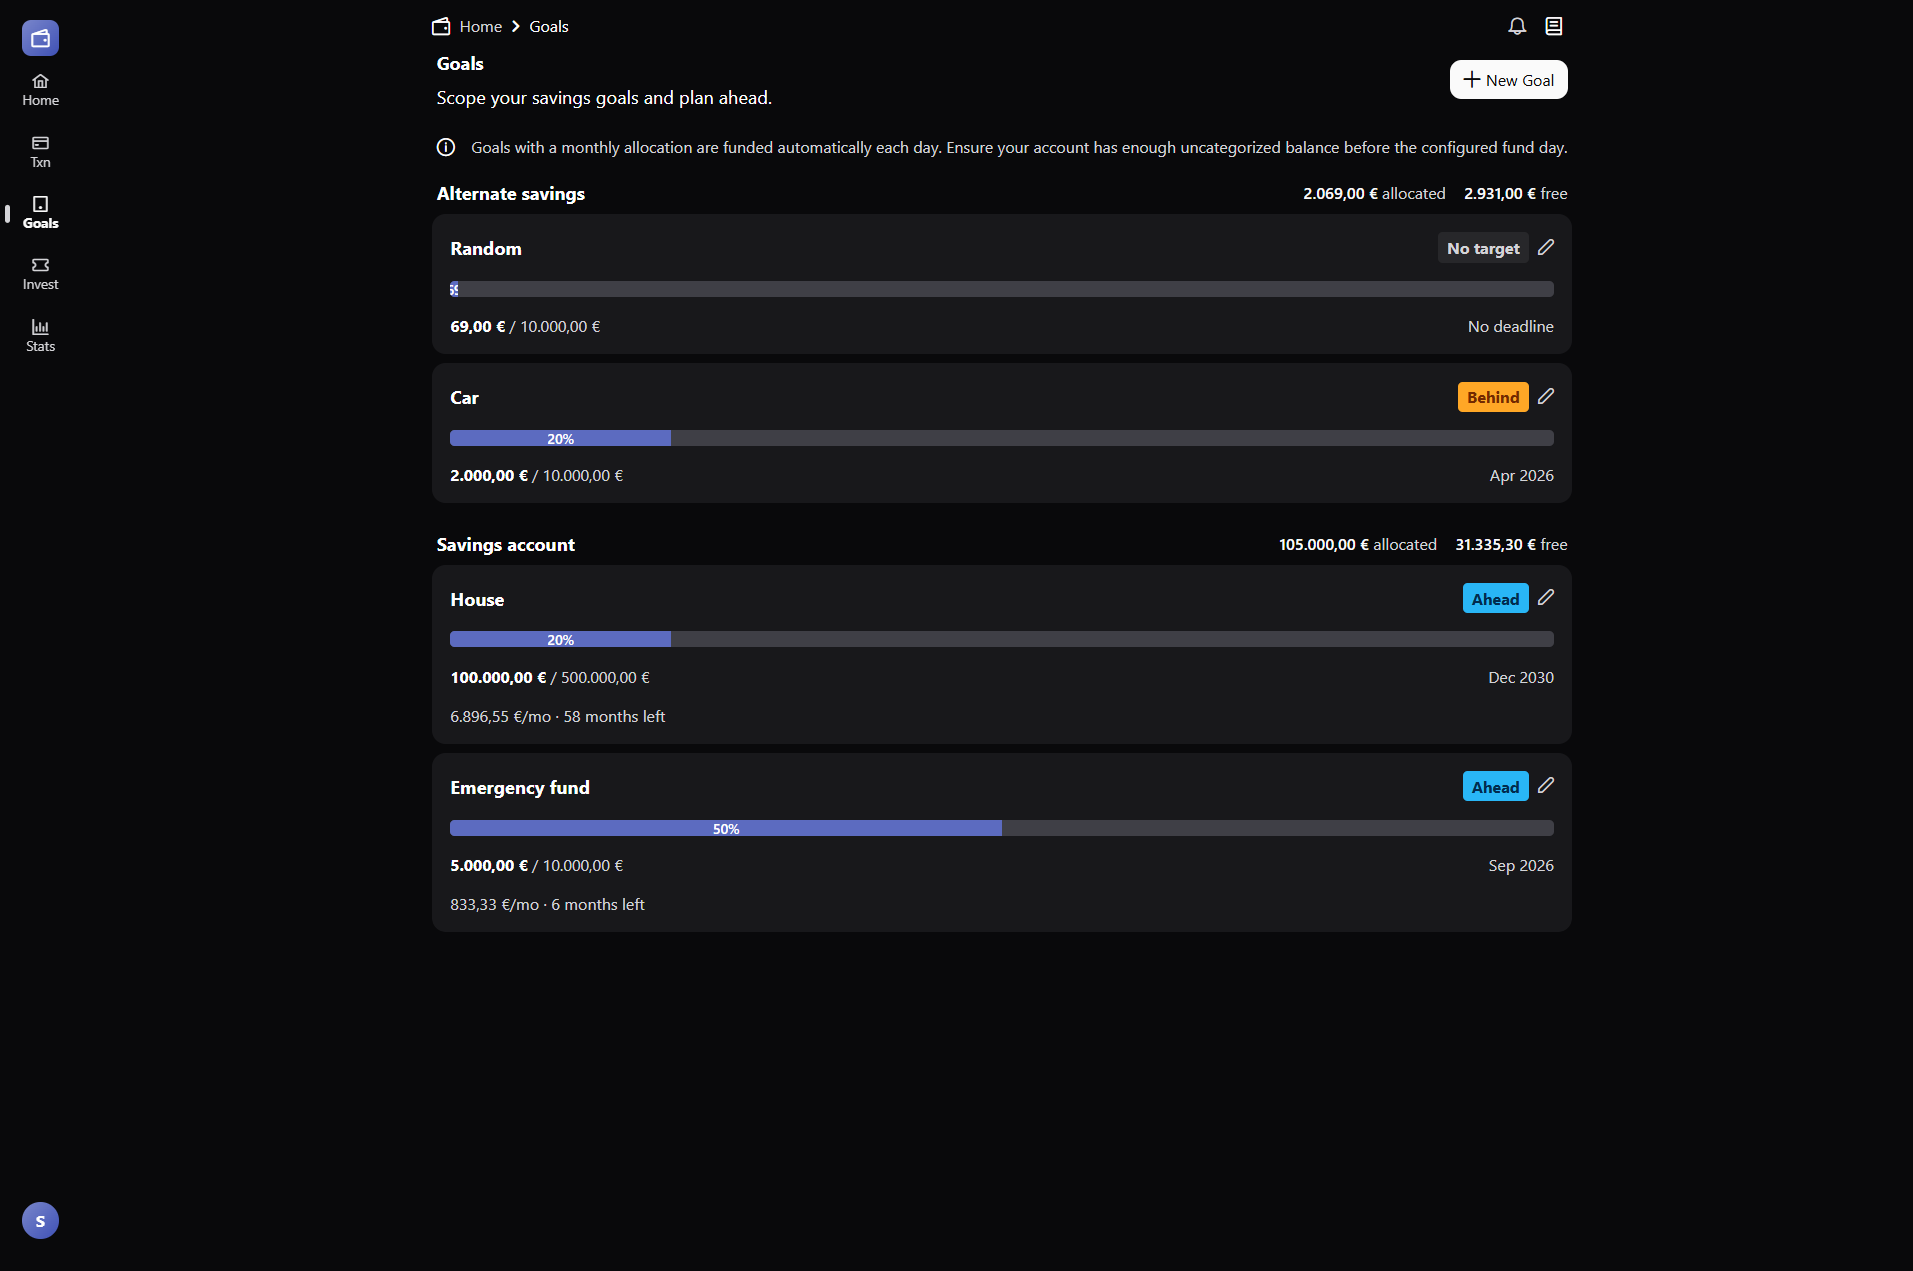
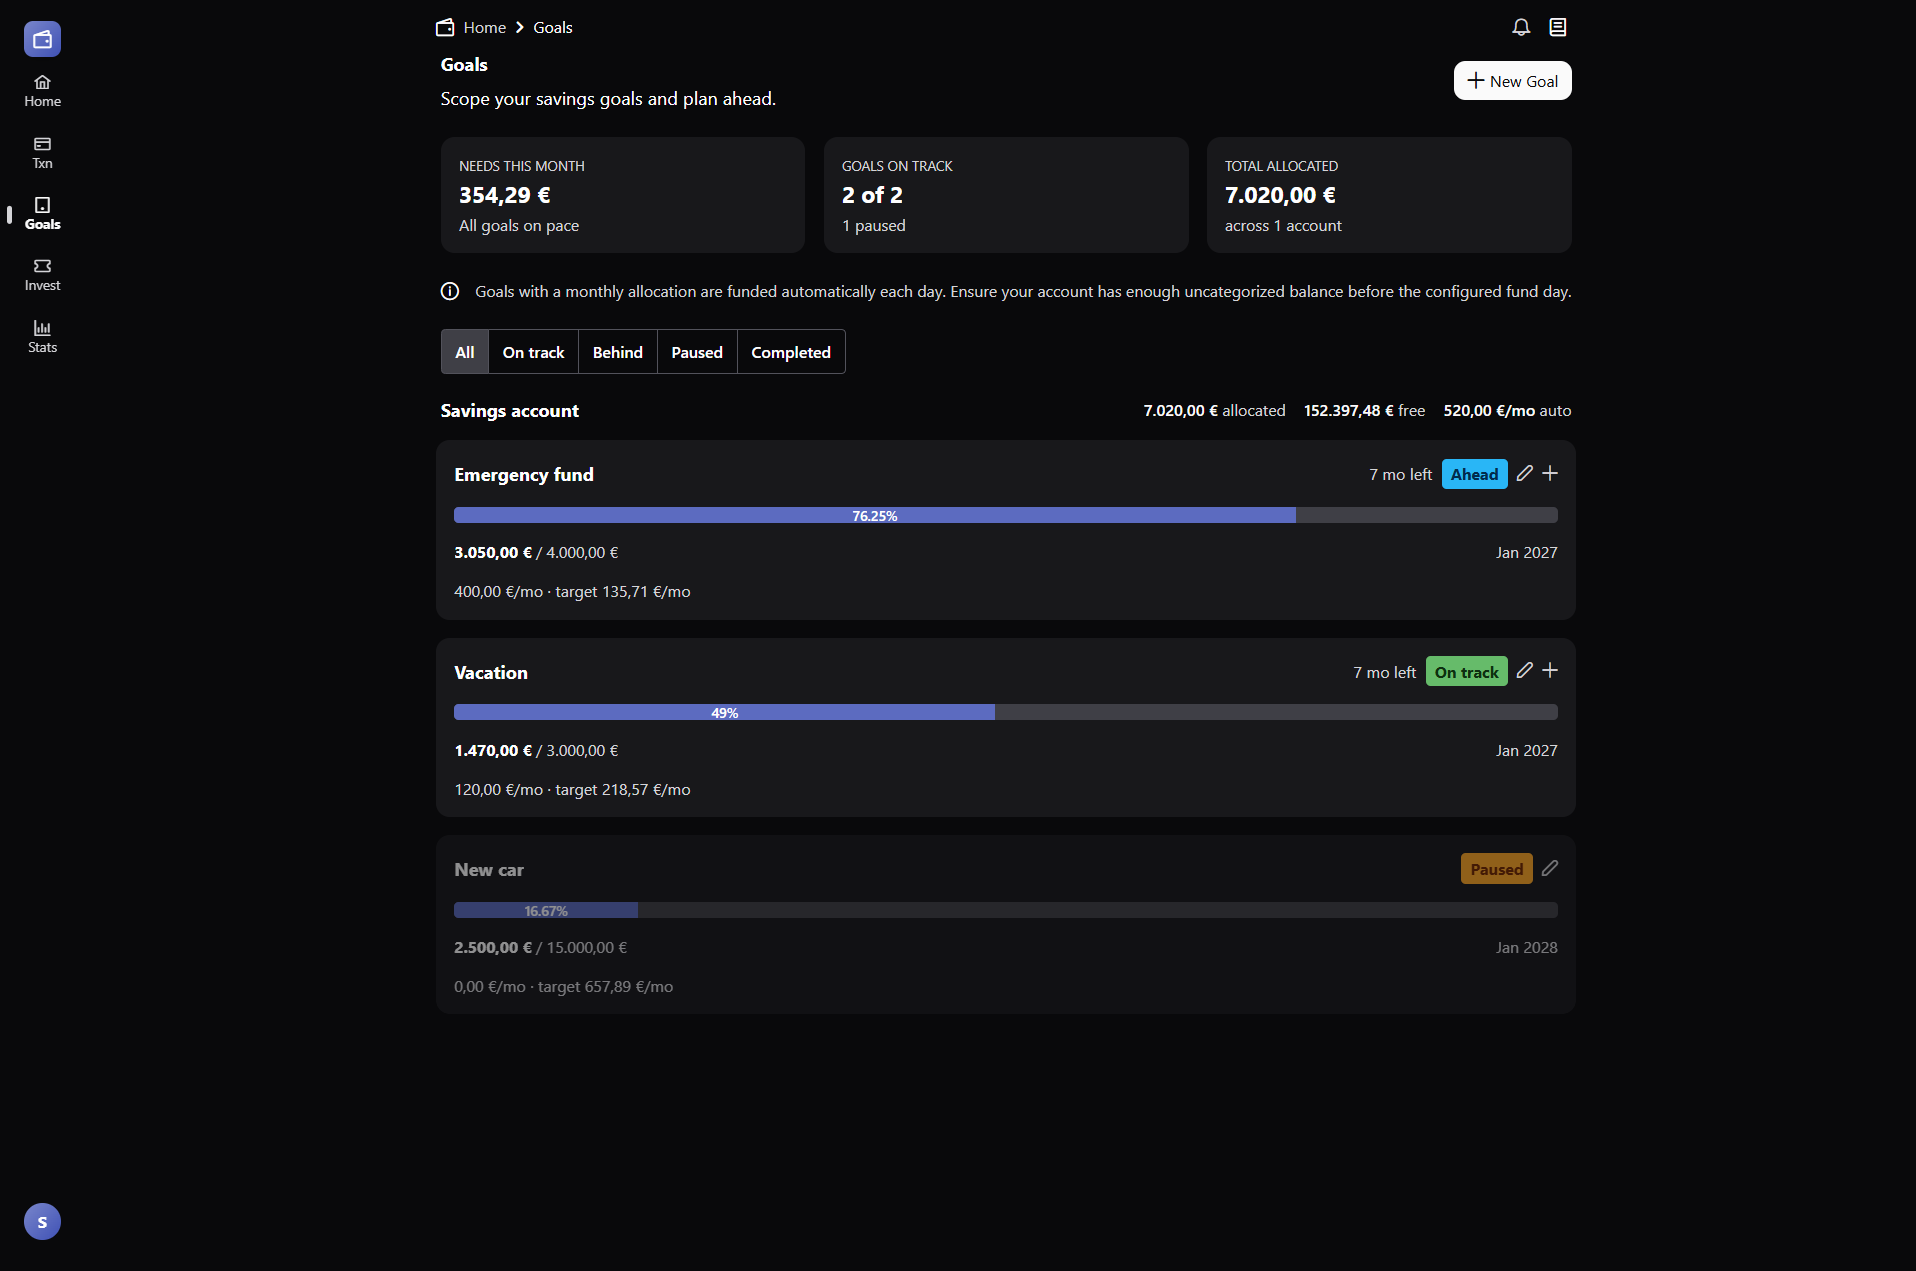
feat: redesign goals page with summary stats and filter
- added summary stat cards for monthly needs, on-track count, and total allocated
- moved time remaining next to the goal status tag
- pace line now shows configured allocation vs target monthly amount

diff --git a/client/src/_vue/pages/GoalsPage.vue b/client/src/_vue/pages/GoalsPage.vue
@@ -168,6 +168,68 @@ const groupedGoals = computed(() => {
     ),
   }));
 });
+
+const filterOptions = ["All", "On track", "Behind", "Paused", "Completed"];
+const activeFilter = ref("All");
+
+function matchesFilter(goal: SavingGoalWithProgress): boolean {
+  switch (activeFilter.value) {
+    case "On track":
+      return (
+        goal.status === "active" &&
+        (goal.track_status === "on_track" || goal.track_status === "early")
+      );
+    case "Behind":
+      return goal.status === "active" && goal.track_status === "late";
+    case "Paused":
+      return goal.status === "paused";
+    case "Completed":
+      return goal.status === "completed" || goal.track_status === "completed";
+    default:
+      return true;
+  }
+}
+
+const filteredGroups = computed(() =>
+  groupedGoals.value
+    .map((group) => ({ ...group, goals: group.goals.filter(matchesFilter) }))
+    .filter((group) => group.goals.length > 0),
+);
+
+const goalStats = computed(() => {
+  const active = goals.value.filter((g) => g.status === "active");
+  let needsThisMonth = new Decimal(0);
+  for (const g of active) {
+    if (g.monthly_needed && g.track_status !== "completed") {
+      needsThisMonth = needsThisMonth.add(new Decimal(g.monthly_needed));
+    }
+  }
+  return {
+    needsThisMonth,
+    behind: active.filter((g) => g.track_status === "late").length,
+    onTrack: active.filter((g) =>
+      ["on_track", "early", "completed"].includes(g.track_status),
+    ).length,
+    activeCount: active.length,
+    noTarget: active.filter((g) => g.track_status === "no_target").length,
+    paused: goals.value.filter((g) => g.status === "paused").length,
+    allocated: goals.value.reduce(
+      (sum, g) => sum.add(new Decimal(g.current_amount ?? "0")),
+      new Decimal(0),
+    ),
+  };
+});
+
+const onTrackBreakdown = computed(() => {
+  const parts: string[] = [];
+  if (goalStats.value.behind > 0)
+    parts.push(`${goalStats.value.behind} behind`);
+  if (goalStats.value.noTarget > 0)
+    parts.push(`${goalStats.value.noTarget} without a deadline`);
+  if (goalStats.value.paused > 0)
+    parts.push(`${goalStats.value.paused} paused`);
+  return parts.join(" · ");
+});
 </script>
 
 <template>
@@ -265,6 +327,67 @@ const groupedGoals = computed(() => {
       </div>
 
       <div
+        v-if="!loading && goals.length > 0"
+        id="goal-stats"
+        class="w-full flex flex-row gap-3 p-1"
+      >
+        <div
+          class="flex-1 flex flex-column gap-1 p-3 border-round-xl bordered"
+          :style="{ background: 'var(--background-secondary)' }"
+        >
+          <div class="text-xs uppercase" style="color: var(--text-secondary)">
+            Needs this month
+          </div>
+          <div class="text-xl font-bold">
+            {{
+              vueHelper.displayAsCurrency(goalStats.needsThisMonth.toString())
+            }}
+          </div>
+          <div class="text-sm" style="color: var(--text-secondary)">
+            {{
+              goalStats.behind > 0
+                ? `${goalStats.behind} goal${goalStats.behind === 1 ? "" : "s"} behind pace`
+                : "All goals on pace"
+            }}
+          </div>
+        </div>
+        <div
+          class="flex-1 flex flex-column gap-1 p-3 border-round-xl bordered"
+          :style="{ background: 'var(--background-secondary)' }"
+        >
+          <div class="text-xs uppercase" style="color: var(--text-secondary)">
+            Goals on track
+          </div>
+          <div class="text-xl font-bold">
+            {{ goalStats.onTrack }} of {{ goalStats.activeCount }}
+          </div>
+          <div
+            v-if="onTrackBreakdown"
+            class="text-sm"
+            style="color: var(--text-secondary)"
+          >
+            {{ onTrackBreakdown }}
+          </div>
+        </div>
+        <div
+          class="flex-1 flex flex-column gap-1 p-3 border-round-xl bordered"
+          :style="{ background: 'var(--background-secondary)' }"
+        >
+          <div class="text-xs uppercase" style="color: var(--text-secondary)">
+            Total allocated
+          </div>
+          <div class="text-xl font-bold">
+            {{ vueHelper.displayAsCurrency(goalStats.allocated.toString()) }}
+          </div>
+          <div class="text-sm" style="color: var(--text-secondary)">
+            across
+            {{ groupedGoals.length }}
+            account{{ groupedGoals.length === 1 ? "" : "s" }}
+          </div>
+        </div>
+      </div>
+
+      <div
         class="w-full flex flex-row justify-content-between p-1 align-items-center text-sm"
       >
         <i class="pi pi-info-circle" style="flex-shrink: 0" />
@@ -273,6 +396,16 @@ const groupedGoals = computed(() => {
           Ensure your account has enough uncategorized balance before the
           configured fund day.
         </div>
+      </div>
+
+      <div v-if="!loading && goals.length > 0" class="w-full flex flex-row p-1">
+        <SelectButton
+          v-model="activeFilter"
+          size="small"
+          style="font-size: 0.875rem"
+          :options="filterOptions"
+          :allow-empty="false"
+        />
       </div>
 
       <div
@@ -298,9 +431,18 @@ const groupedGoals = computed(() => {
           </div>
         </div>
 
+        <div
+          v-else-if="filteredGroups.length === 0"
+          class="flex flex-row p-2 w-full justify-content-center"
+        >
+          <span style="color: var(--text-secondary)"
+            >No goals match this filter</span
+          >
+        </div>
+
         <div v-else class="flex flex-column gap-4">
           <div
-            v-for="group in groupedGoals"
+            v-for="group in filteredGroups"
             :key="group.accountID"
             class="flex flex-column gap-3"
           >
@@ -378,6 +520,17 @@ const groupedGoals = computed(() => {
                   </div>
                 </div>
                 <div class="flex flex-row align-items-center gap-2">
+                  <span
+                    v-if="
+                      goal.status === 'active' &&
+                      goal.months_remaining &&
+                      goal.track_status !== 'completed'
+                    "
+                    class="text-sm"
+                    style="color: var(--text-secondary); white-space: nowrap"
+                  >
+                    {{ goal.months_remaining }} mo left
+                  </span>
                   <Tag
                     v-if="goal.status !== 'active'"
                     :value="savingsHelper.goalStatusLabel(goal.status)"
@@ -442,10 +595,10 @@ const groupedGoals = computed(() => {
                 class="text-sm"
                 style="color: var(--text-secondary)"
               >
+                {{
+                  vueHelper.displayAsCurrency(goal.monthly_allocation ?? "0")
+                }}/mo &middot; target
                 {{ vueHelper.displayAsCurrency(goal.monthly_needed) }}/mo
-                <span v-if="goal.months_remaining"
-                  >&middot; {{ goal.months_remaining }} months left</span
-                >
               </div>
             </div>
           </div>
@@ -459,6 +612,9 @@ const groupedGoals = computed(() => {
 @media (max-width: 768px) {
   #mobile-container {
     padding: 0.5rem;
+  }
+  #goal-stats {
+    flex-direction: column;
   }
 }
 </style>